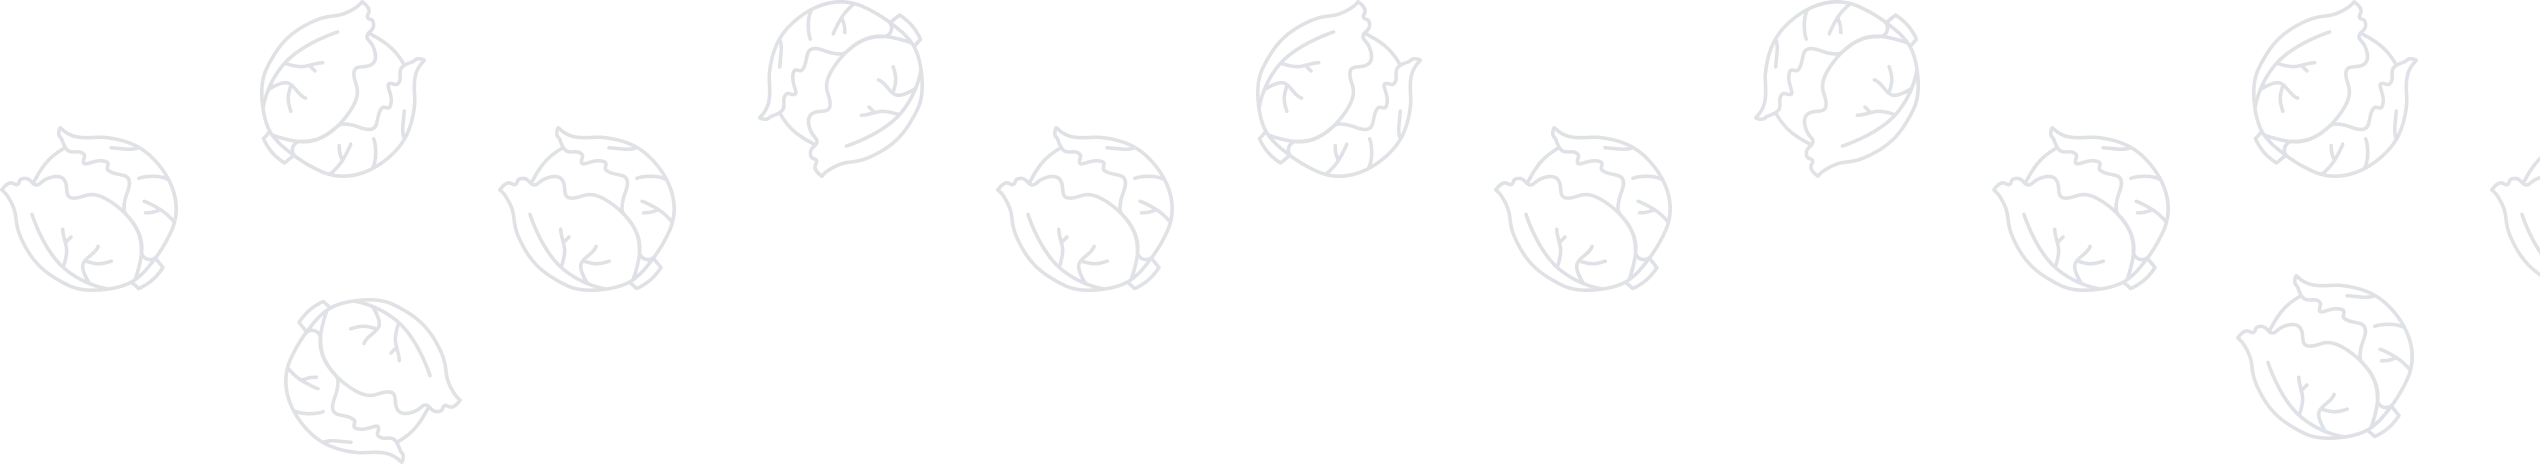
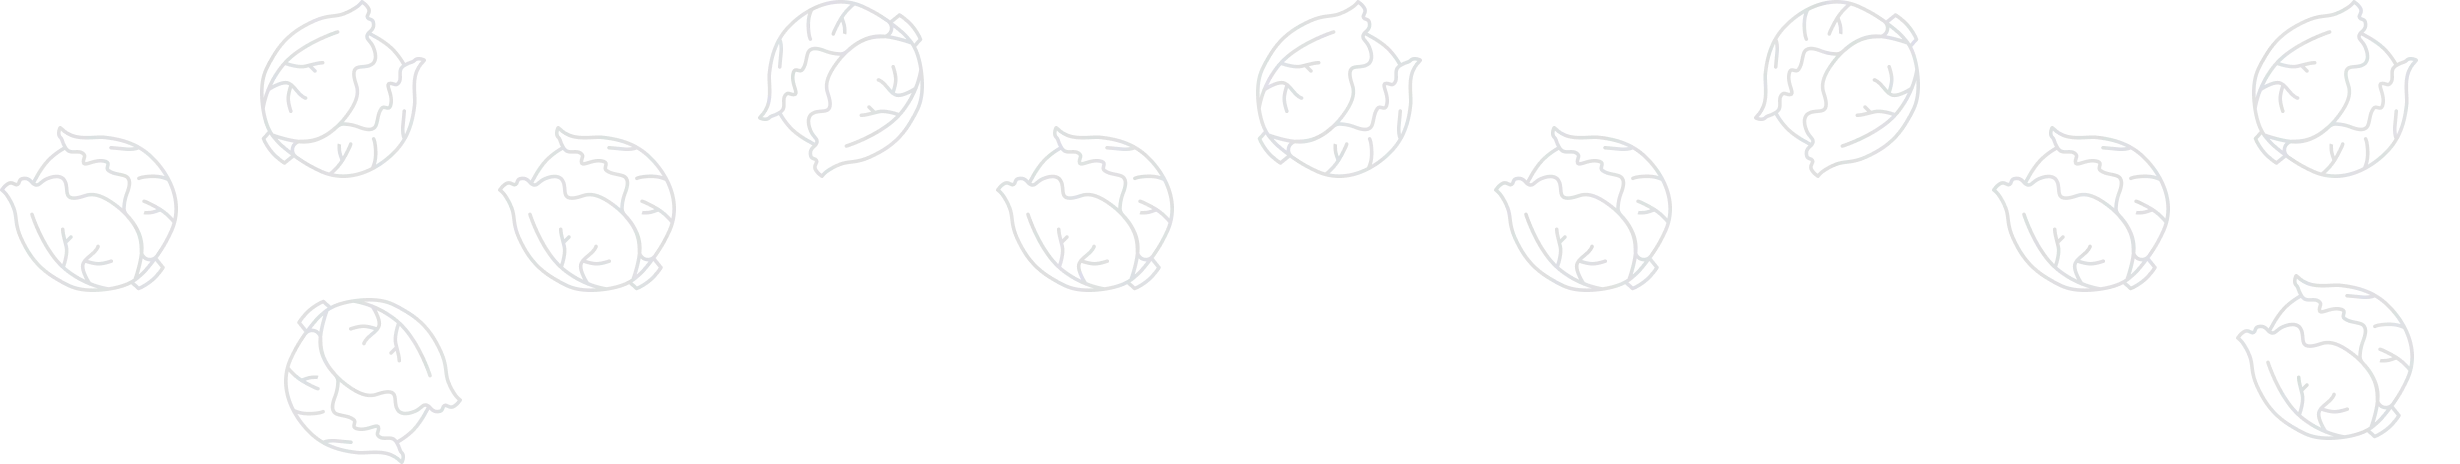
background

diff --git a/src/assets/styles/layout/_home-page.css b/src/assets/styles/layout/_home-page.css
@@ -1,0 +1,29 @@
+main.home-page {
+  position: relative;
+}
+
+main.home-page::before {
+  content: "";
+  position: fixed;
+  top: 56px;
+  left: 0;
+  width: 100%;
+  height: 526px;
+  background-color: var(--clr-background);
+  border-radius: 0 0 0 105px;
+  z-index: -1;
+}
+
+main.home-page::after {
+  content: "";
+  position: fixed;
+  bottom: 0;
+  width: 1640px;
+  height: 232px;
+  /* max-height: 232px; */
+  background-image: url("../../images/background-cabbage/cabbage-desktop.webp");
+  background-repeat: repeat-x;
+  background-position: bottom right;
+  background-size: contain;
+  z-index: -1;
+}

diff --git a/src/pages/HomePage.jsx b/src/pages/HomePage.jsx
@@ -6,7 +6,7 @@ const HomePage = () => {
   const { email } = useOutletContext();
 
   return (
-    <main>
+    <main className="home-page">
       {}
       <DataHeader email={email} />
       <FinanceTracker email={email} />

diff --git a/src/assets/styles/index.css b/src/assets/styles/index.css
@@ -6,3 +6,4 @@
 /* Layout */
 @import url(./layout/_header.css);
 @import url(./layout/_login-page.css);
+@import url(./layout/_home-page.css);
